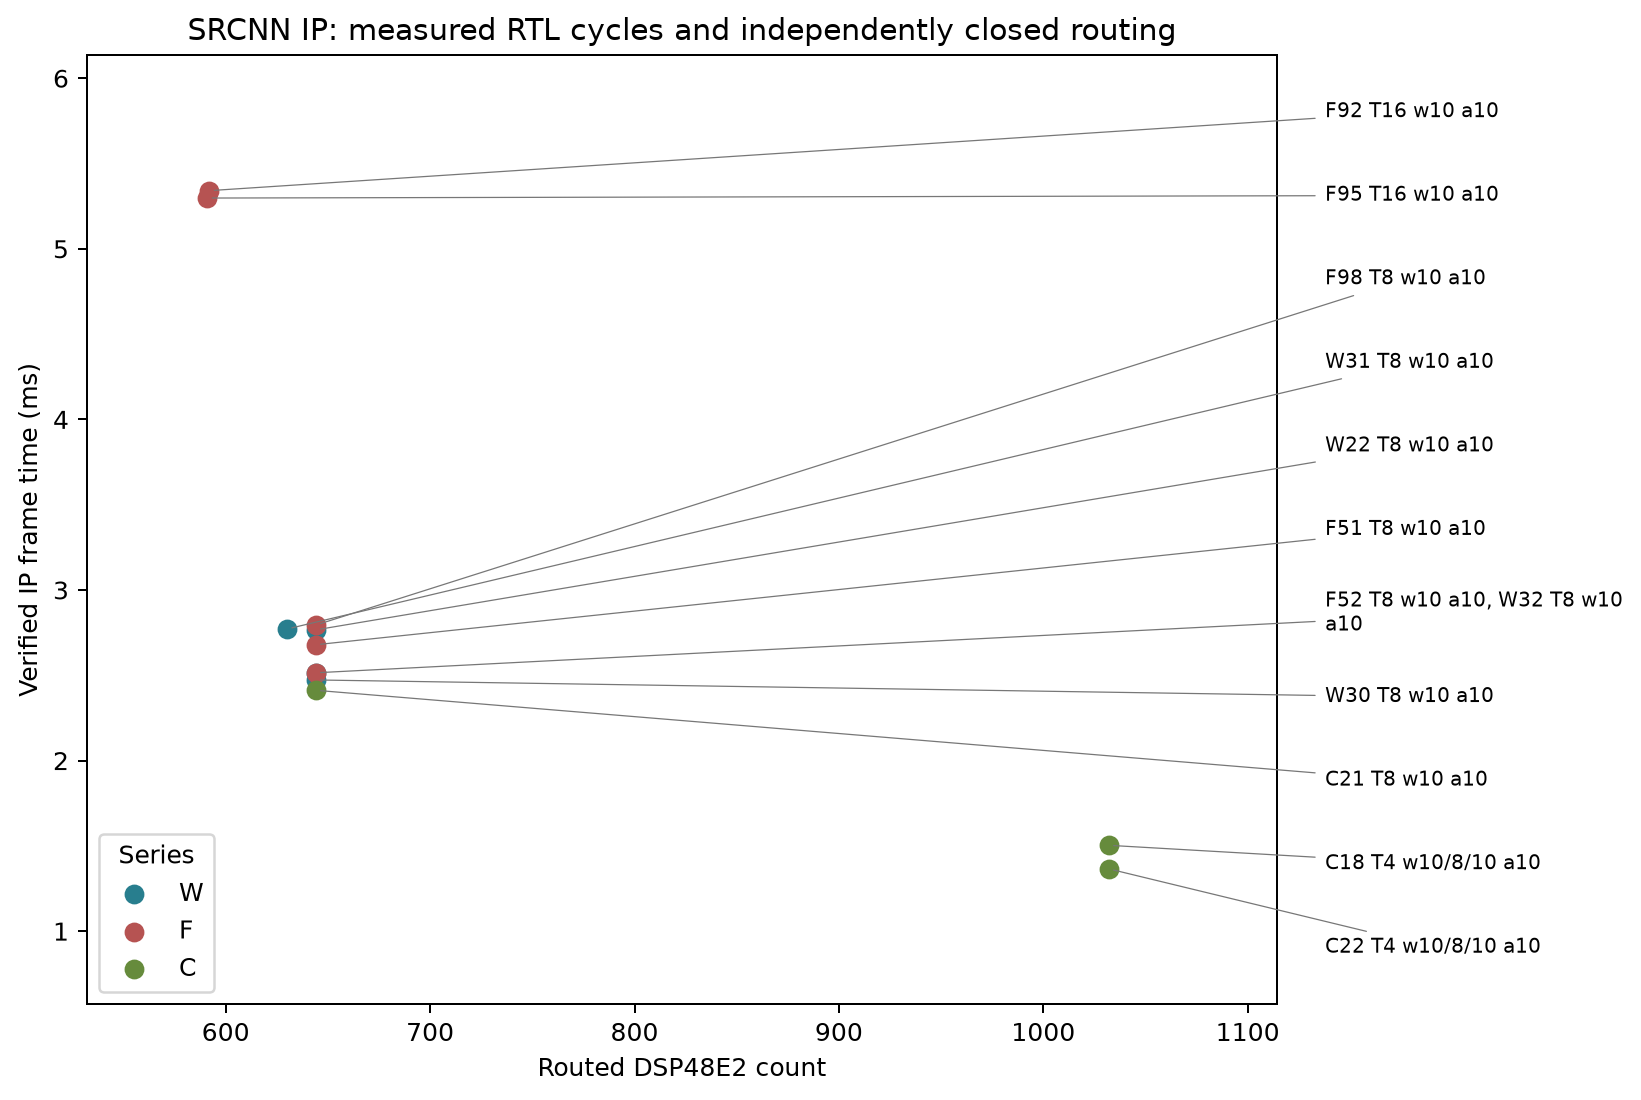
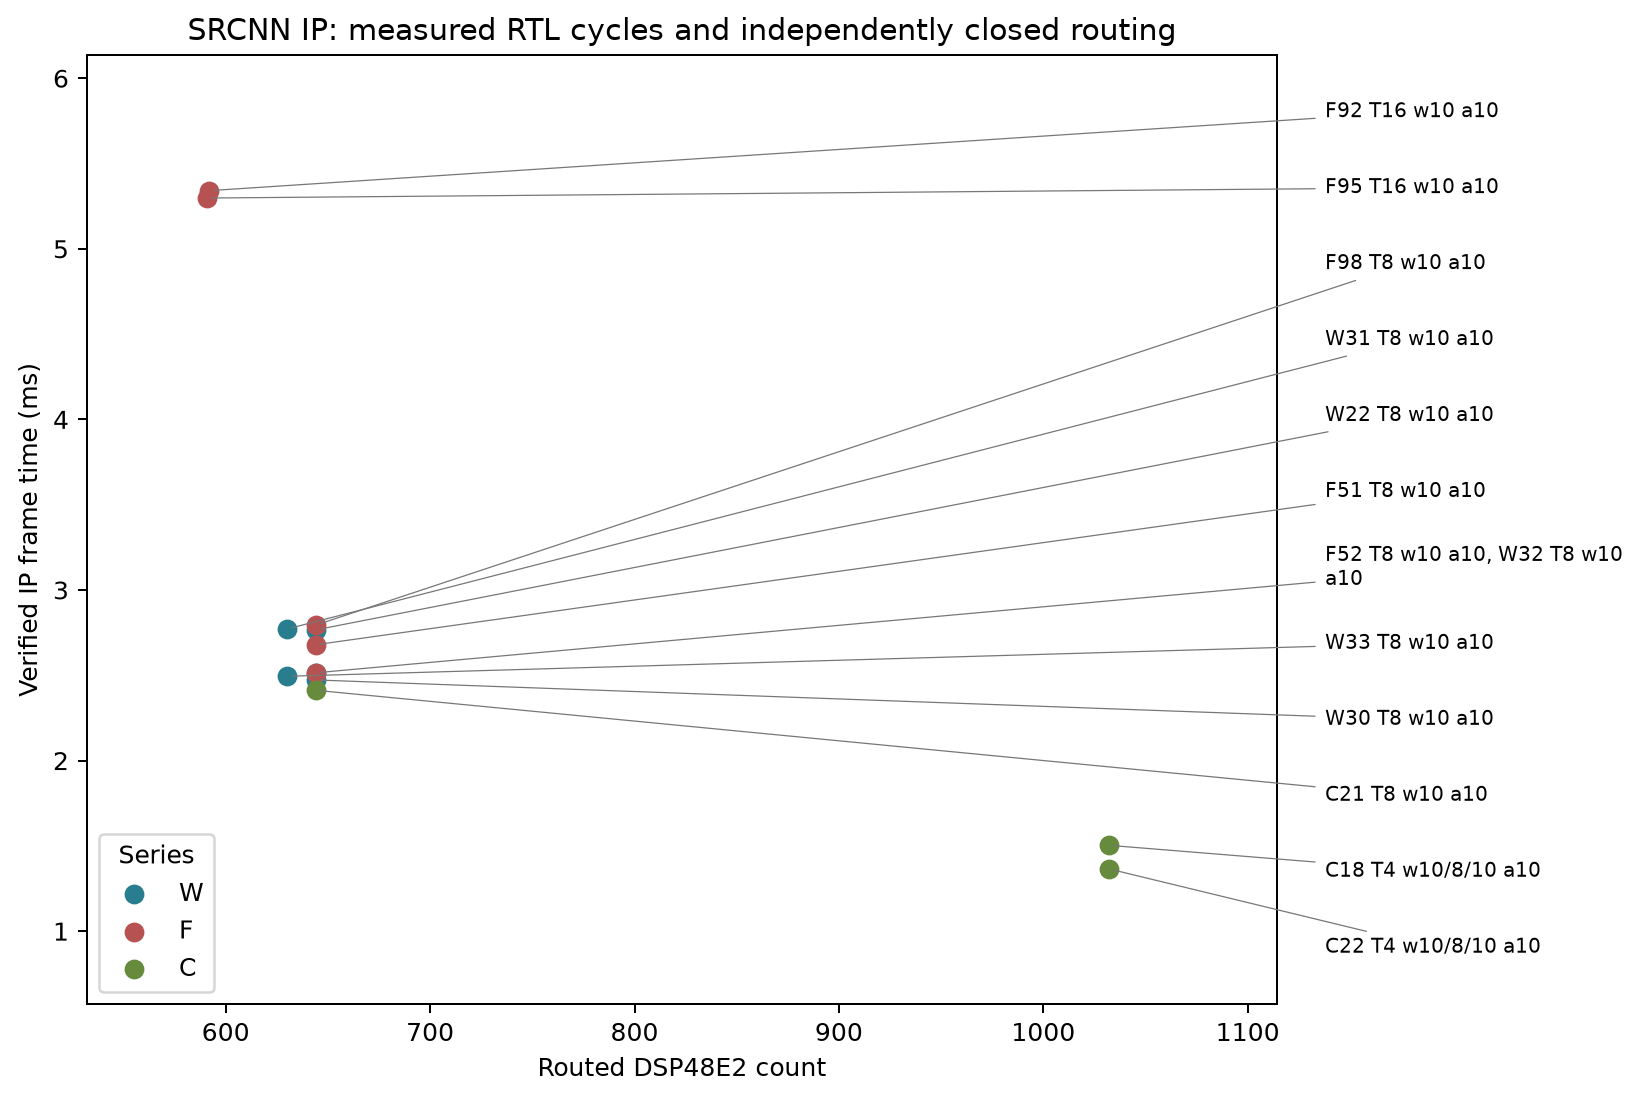
W33 finalize_ROM_control_and_WS_F_C_checks

diff --git a/experiments/ROM_CLOCK.md b/experiments/ROM_CLOCK.md
@@ -1,12 +1,12 @@
 # ROM, clock, FIFO and T4 workstream
 
-Plan: [docs/0005](../docs/0005-rom-clock-t4-plan.md). Updated 2026-10-13T00:56:07+00:00.
+Plan: [docs/0005](../docs/0005-rom-clock-t4-plan.md). Updated 2026-10-13T00:57:40+00:00.
 
 The user-accepted F47/F48 deep-window design is the T8 mainline basis; W21 remains the independently routed integration fallback. ROM is an independent experiment. Set14 means the complete 13-image course-provided set. Final resource acceptance uses independent OOC routed timing/utilization; archived HLS statuses are unchanged. No board performance is inferred.
 
 ## Current state
 
-W33 closes 4.5 ns; C24/C25 exact C checks pass; C23 synthesis and F53 regression running. C22 remains the verified 1.365115 ms leader and C21 is a verified 2.411892 ms lower-DSP alternative; both IP handoffs are archived. W33 independently closes 4.5 ns with WNS +0.063/WHS +0.032, zero TNS/THS, no unrouted/partial nets and 630 DSP/33829 LUT/82539 FF/101 BRAM18K. Matching W25 exact 554226 cycles gives 2.494017 ms; ROM stays exploratory. C24 four-call reuse/reload/retain and C25 fresh-process first-call load=0 checks pass exactly. C23 completes all 13 loaded/reused images with unchanged -0.07589037644656216 dB deltaPSNR and is now synthesizing; its complete archive remains pending under supervisor 65418. Supervisor 2446 runs F53's frozen C13 13-image regression. After actual passing HLS and regression archives arrive, allocate independent monitored four-call RTL and staged 5 ns routing. The standalone monitor/AXI evidence remains unmeasured. Preserve one heavy task, 18 GiB implementation registration, serial_after_oom and every numerical/physical gate. Finish interpretations, plots, two-location protected checksums and the idle audit before closure. No board results exist.
+W33 archived at 4.5 ns; all WS-F C checks pass; C23 HLS screening running. C22 remains the verified 1.365115 ms leader and C21 is a verified 2.411892 ms lower-DSP alternative; both IP handoffs are archived. W33 independently closes 4.5 ns with WNS +0.063/WHS +0.032, zero TNS/THS, no unrouted/partial nets and 630 DSP/33829 LUT/82539 FF/101 BRAM18K. Matching W25 exact 554226 cycles gives 2.494017 ms; ROM stays exploratory. C24 four-call reuse/reload/retain, C25 fresh-process first-call load=0 and F53 frozen C13 13-image regression all pass exactly. C23 completes all 13 loaded/reused images with unchanged -0.07589037644656216 dB deltaPSNR and is now synthesizing; its complete archive remains pending under supervisor 65418. After actual passing HLS screening arrives, allocate independent monitored four-call RTL and staged 5 ns routing. The standalone monitor/AXI evidence remains unmeasured. Preserve one heavy task, 18 GiB implementation registration, serial_after_oom and every numerical/physical gate. Finish interpretations, plots, two-location protected checksums and the idle audit before closure. No board results exist.
 
 | id | parent | operation | status | bit_exact | delta_psnr | HLS_cycles | HLS_DSP | HLS_LUT | rtl_cycles | rtl_acceptance_basis | route_clock_ns | route_feasible | rtl_cycles_x_route_clock_ms | rtl_hls_excess_pct | wsD_goal_met |
 | --- | --- | --- | --- | --- | --- | --- | --- | --- | --- | --- | --- | --- | --- | --- | --- |

diff --git a/experiments/PROGRESS.md b/experiments/PROGRESS.md
@@ -4,13 +4,13 @@
 
 ## Active docs/0005 workstream
 
-W33 closes 4.5 ns; C24/C25 exact C checks pass; C23 synthesis and F53 regression running. C22 remains the verified 1.365115 ms leader and C21 is a verified 2.411892 ms lower-DSP alternative; both IP handoffs are archived. W33 independently closes 4.5 ns with WNS +0.063/WHS +0.032, zero TNS/THS, no unrouted/partial nets and 630 DSP/33829 LUT/82539 FF/101 BRAM18K. Matching W25 exact 554226 cycles gives 2.494017 ms; ROM stays exploratory. C24 four-call reuse/reload/retain and C25 fresh-process first-call load=0 checks pass exactly. C23 completes all 13 loaded/reused images with unchanged -0.07589037644656216 dB deltaPSNR and is now synthesizing; its complete archive remains pending under supervisor 65418. Supervisor 2446 runs F53's frozen C13 13-image regression. After actual passing HLS and regression archives arrive, allocate independent monitored four-call RTL and staged 5 ns routing. The standalone monitor/AXI evidence remains unmeasured. Preserve one heavy task, 18 GiB implementation registration, serial_after_oom and every numerical/physical gate. Finish interpretations, plots, two-location protected checksums and the idle audit before closure. No board results exist.
+W33 archived at 4.5 ns; all WS-F C checks pass; C23 HLS screening running. C22 remains the verified 1.365115 ms leader and C21 is a verified 2.411892 ms lower-DSP alternative; both IP handoffs are archived. W33 independently closes 4.5 ns with WNS +0.063/WHS +0.032, zero TNS/THS, no unrouted/partial nets and 630 DSP/33829 LUT/82539 FF/101 BRAM18K. Matching W25 exact 554226 cycles gives 2.494017 ms; ROM stays exploratory. C24 four-call reuse/reload/retain, C25 fresh-process first-call load=0 and F53 frozen C13 13-image regression all pass exactly. C23 completes all 13 loaded/reused images with unchanged -0.07589037644656216 dB deltaPSNR and is now synthesizing; its complete archive remains pending under supervisor 65418. After actual passing HLS screening arrives, allocate independent monitored four-call RTL and staged 5 ns routing. The standalone monitor/AXI evidence remains unmeasured. Preserve one heavy task, 18 GiB implementation registration, serial_after_oom and every numerical/physical gate. Finish interpretations, plots, two-location protected checksums and the idle audit before closure. No board results exist.
 
 See [ROM_CLOCK.md](ROM_CLOCK.md) and [rom_clock_state.json](rom_clock_state.json). Current gates override historical missing-comic/HLS-only/serial-lock wording below: complete course Set14=13; final feasibility=routed; concurrency=one heavy task with light jobs admitted by measured headroom.
 
 <!-- ROM_CLOCK_CURRENT -->
 
-Updated 2026-10-13T00:56:06+00:00 from archived measurements.
+Updated 2026-10-13T00:57:39+00:00 from archived measurements.
 
 Branch: `exp/explore-arch`, from phase-one final `2fa7249`. Original46 files and45 first-phase design files remain checksum protected. Preserve user README/.gitignore/docs-index edits.
 

diff --git a/experiments/F53_legacy_C13_regression/F53.md b/experiments/F53_legacy_C13_regression/F53.md
@@ -82,13 +82,11 @@ Use independently copied frozen C13 sources; add only the user-approved paramete
 python3 exp/reproduce_exp.py F53 --run
 ```
 
-This allocates a new ID and restores frozen sources; see [reproduction guide](../REPRODUCE.md). Original reserved invocation:
+Allocates a fresh ID and restores frozen design/testbench sources; verification also rebuilds its parent. See [reproduction guide](../REPRODUCE.md). Original reserved invocation:
 
 ```sh
 python3 exp/run_exp.py --config exp/configs/F53.json
 ```
-
-Settings path is recorded in config.json.
 
 ## 5. Results / 结果
 
@@ -133,6 +131,14 @@ Settings path is recorded in config.json.
 | notes | unknown |
 | route_feasible | unknown |
 
+### Pipeline loops
+
+No loop report available.
+
+### Module resources
+
+No module report available.
+
 <!-- AUTO: resource percentages -->
 
 | resource | count | device_capacity | device_pct | gate_pct | within_gate |
@@ -145,17 +151,22 @@ Settings path is recorded in config.json.
 
 <!-- END: resource percentages -->
 
-### Pipeline loops
-
-No loop report available.
-
-### Module resources
-
-No module report available.
-
 ## 6. Interpretation / 解读
 
-Compare measured load/reuse/cold-start exactness, AXI traffic and per-call cycles with the committed estimates. Explain deviations above20%. HLS estimates cannot prove reset persistence, zero RTL AXI traffic or routing.
+The frozen C13 design passes both butterfly calls and all 13 course-provided images after the shared testbench gained the guarded reload-switch branch. Every output bit still matches E065; mean deltaPSNR remains -0.07589037644656216 dB and the butterfly six-pixel border MSE remains 1.405191888267716e-05. EXP_RELOAD_SWITCH is disabled in this run, so it executes the original eight-array srcnn interface and validates the shared testbench's legacy behavior.
+
+This is a C-only regression with unchanged frozen source hashes. Hardware resources and cycles remain unmeasured here; the original C13/C14/C18 reports retain their separate evidence and are not replaced. C24 and C25 cover the new interface's C semantics. C23 must finish HLS screening before monitored RTL is planned.
+
+Estimate audit (parsed values; zero estimates have no percentage denominator):
+
+| metric | estimate | actual | actual_domain | actual_source | deviation_pct | over20pct |
+| --- | --- | --- | --- | --- | --- | --- |
+| DSP | 1032.0 | unknown | HLS | F53 | unknown | False |
+| BRAM18K | 146.0 | unknown | HLS | F53 | unknown | False |
+| URAM | 0.0 | unknown | HLS | F53 | unknown | False |
+| LUT | 128900.0 | unknown | HLS | F53 | unknown | False |
+| FF | 193500.0 | unknown | HLS | F53 | unknown | False |
+| latency_cycles | 300632.0 | unknown | HLS | F53 | unknown | False |
 
 ## 7. Conclusion and next step / 结论与下一步
 

diff --git a/experiments/ARCH_SUMMARY.md b/experiments/ARCH_SUMMARY.md
@@ -94,7 +94,6 @@ Unmeasured plans have no actual result and do not enter rankings:
 | id | parent | operation | status | condition |
 | --- | --- | --- | --- | --- |
 | [C23](C23_reload_switch_quality/C23.md) | C13 | csim/csynth | queued_or_running | After C21 completes, validate all13 loaded/reused images and synthesize the independent reload top under unchanged memory admission; hardware verification requires allC checks and HLS screening |
-| [F53](F53_legacy_C13_regression/F53.md) | C13 | csim/csynth | queued_or_running | After C21 completes, regress frozen C13 on all13images with the new shared testbench macro disabled |
 
 ## P Direction
 
@@ -301,6 +300,7 @@ Loader controls preserve all inference engines, precision and runtime parameters
 | [F47](F47_windows16_W21_T8/F47.md) | frame | 8 | 525237.0 | 1.74903921 | 644.0 | 146.0 | 0.0 | 81086.0 | 130057.0 | True | 1.661846957728205e-05 | True | pass |
 | [F40](F40_fifo16_W21_T8/F40.md) | frame | 8 | 525237.0 | 1.74903921 | 644.0 | 146.0 | 0.0 | 81086.0 | 130057.0 | True | 1.661846957728205e-05 | True | pass |
 | [F39](F39_c3_select_W21_T8/F39.md) | frame | 8 | 525237.0 | 1.74903921 | 644.0 | 146.0 | 0.0 | 81518.0 | 130422.0 | True | 1.661846957728205e-05 | True | pass |
+| [F53](F53_legacy_C13_regression/F53.md) | frame | 4 | unknown | unknown | unknown | unknown | unknown | unknown | unknown | True | 1.405191888267716e-05 | unknown | csim_pass |
 
 ## All Architectures
 
@@ -575,6 +575,7 @@ All numeric values come from frozen plans and parsed reports. Actual means csynt
 | [W33](W33_ws_impl_W24/W33.md) | frame | 630.0 | 630.0 | 0.0 | 524330.0 | unknown | unknown | impl_complete |
 | [C24](C24_reload_switch_sequence/C24.md) | frame | 1032.0 | unknown | unknown | 300632.0 | unknown | unknown | csim_pass |
 | [C25](C25_reload_switch_cold/C25.md) | frame | 1032.0 | unknown | unknown | 300632.0 | unknown | unknown | csim_pass |
+| [F53](F53_legacy_C13_regression/F53.md) | frame | 1032.0 | unknown | unknown | 300632.0 | unknown | unknown | csim_pass |
 
 Largest percentage deviations (a zero paper denominator has no percentage):
 
@@ -1029,4 +1030,4 @@ Final local/remote original and first-phase source checksum and report-provenanc
 
 ![Conv3 core and pad resource comparison](figs/conv3_core_resources.png)
 
-Generated from archived evidence at 2026-10-13T00:56:02+00:00.
+Generated from archived evidence at 2026-10-13T00:57:39+00:00.

diff --git a/experiments/F53_legacy_C13_regression/interpretation.md b/experiments/F53_legacy_C13_regression/interpretation.md
@@ -1,0 +1,3 @@
+The frozen C13 design passes both butterfly calls and all 13 course-provided images after the shared testbench gained the guarded reload-switch branch. Every output bit still matches E065; mean deltaPSNR remains -0.07589037644656216 dB and the butterfly six-pixel border MSE remains 1.405191888267716e-05. EXP_RELOAD_SWITCH is disabled in this run, so it executes the original eight-array srcnn interface and validates the shared testbench's legacy behavior.
+
+This is a C-only regression with unchanged frozen source hashes. Hardware resources and cycles remain unmeasured here; the original C13/C14/C18 reports retain their separate evidence and are not replaced. C24 and C25 cover the new interface's C semantics. C23 must finish HLS screening before monitored RTL is planned.

diff --git a/experiments/C24_reload_switch_sequence/C24.md b/experiments/C24_reload_switch_sequence/C24.md
@@ -171,7 +171,7 @@ Estimate audit (parsed values; zero estimates have no percentage denominator):
 
 ## 7. Conclusion and next step / 结论与下一步
 
-After all C checks and the legacy regression, plan independent multi-call RTL verification and staged5ns routing. Keep C18 as fallback until all gates pass.
+The four-call C sequence passes exactly, including ignored incoming parameter pointers and retention of the most recently loaded banks. Continue only after the complete C23 quality/HLS and F53 legacy regression gates pass, then independently verify four RTL calls with per-call parameter AXI counts. No hardware latency or zero-AXI result is established by this C run.
 
 ## 8. Raw files / 原始文件位置
 

diff --git a/experiments/C25_reload_switch_cold/C25.md b/experiments/C25_reload_switch_cold/C25.md
@@ -171,7 +171,7 @@ Estimate audit (parsed values; zero estimates have no percentage denominator):
 
 ## 7. Conclusion and next step / 结论与下一步
 
-After all C checks and the legacy regression, plan independent multi-call RTL verification and staged5ns routing. Keep C18 as fallback until all gates pass.
+Fresh-process first-call load_params=0 forces loading and produces the exact E065 butterfly output in C simulation. Keep hardware reset and persistence claims pending the separate RTL verification and independently closed implementation. Preserve the C18 fallback while the remaining gates run.
 
 ## 8. Raw files / 原始文件位置
 
